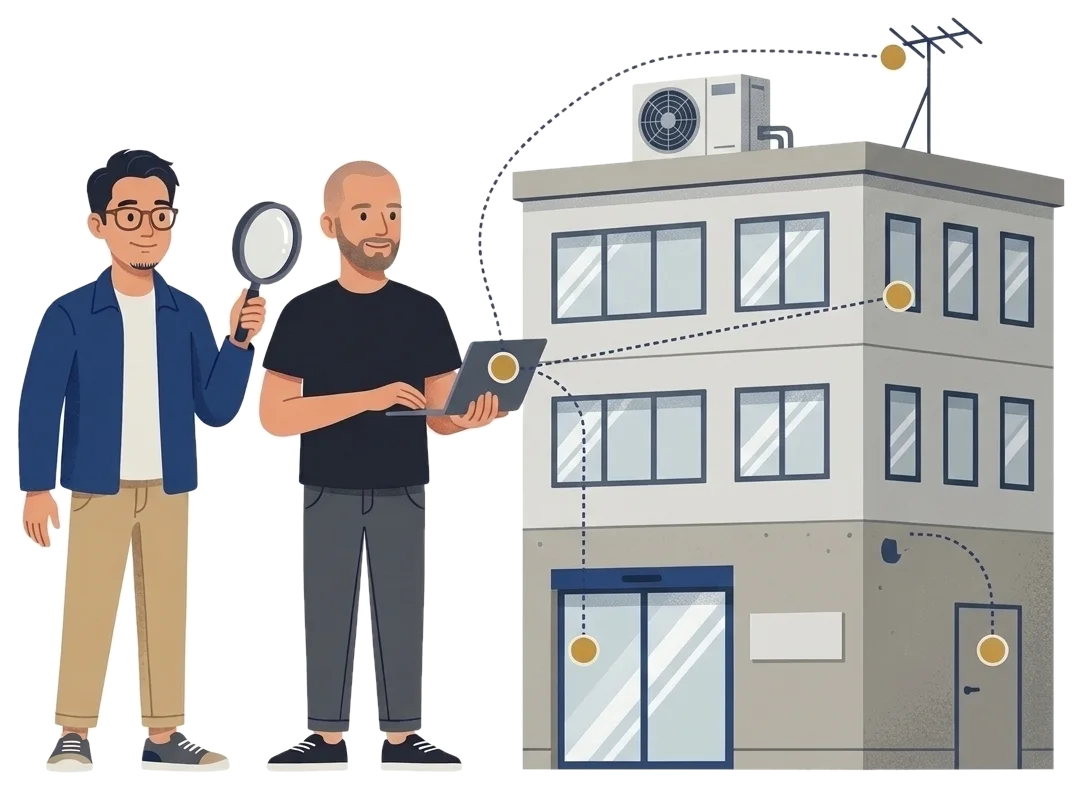
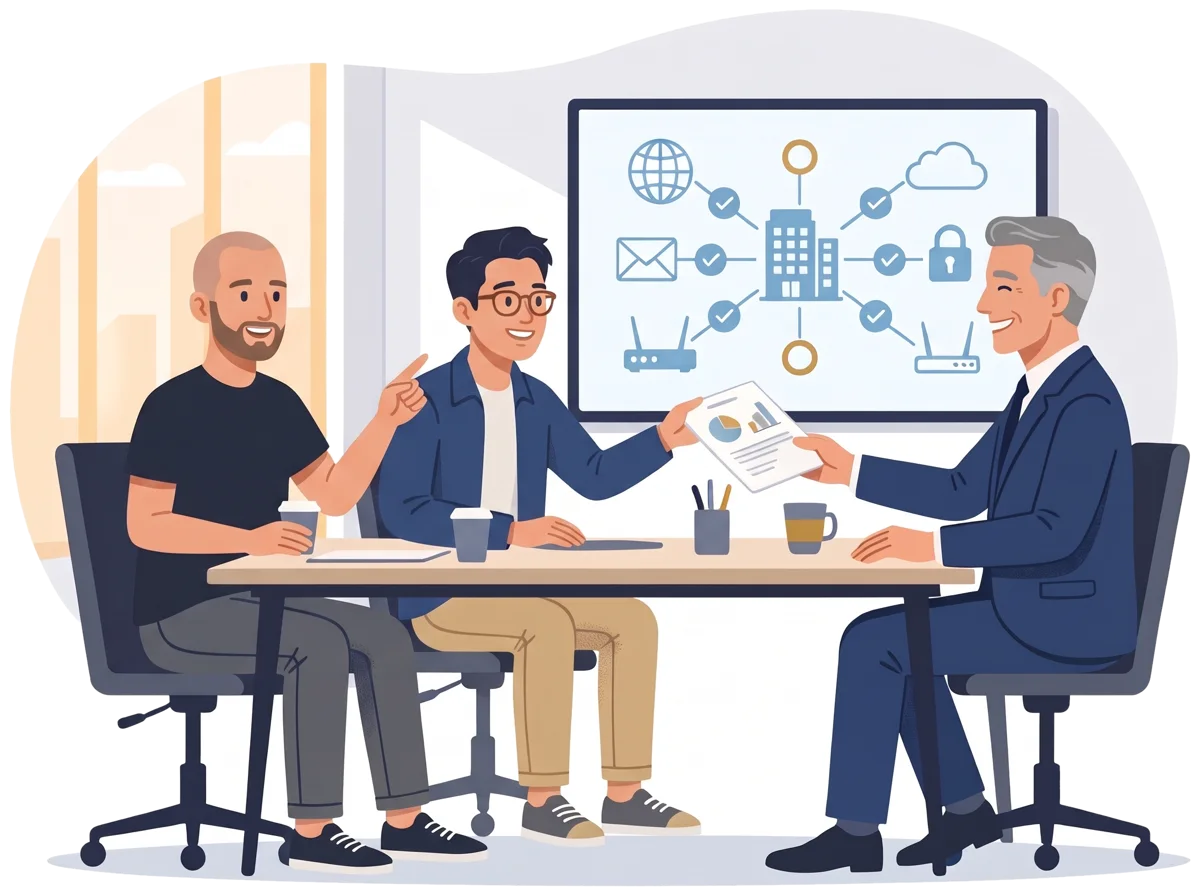
Cyber Drill：ヒーローの絵を「会社のビルを外から点検」から「社長に報告書を手渡し、後ろの大画面にセキュリティの地図」に（ブランチ・未公開）
本人 2026-11-07「家の点検ぽい」「パソコンでかたかたやるだけで30万？みたいに見えちゃいそう」「セキュリティは信頼安心感技術」→4案から「Jだな」。渡すのは髙橋、Mattは画面を指す

diff --git a/drill/index.html b/drill/index.html
@@ -503,7 +503,7 @@
       </div>
     </div>
     <div class="hero-visual" aria-hidden="true">
-      <img src="/assets/drill/flat/hero.webp" alt="" width="1093" height="790">
+      <img src="/assets/drill/flat/hero.webp" alt="" width="1200" height="896">
     </div>
   </div>
 </section>
